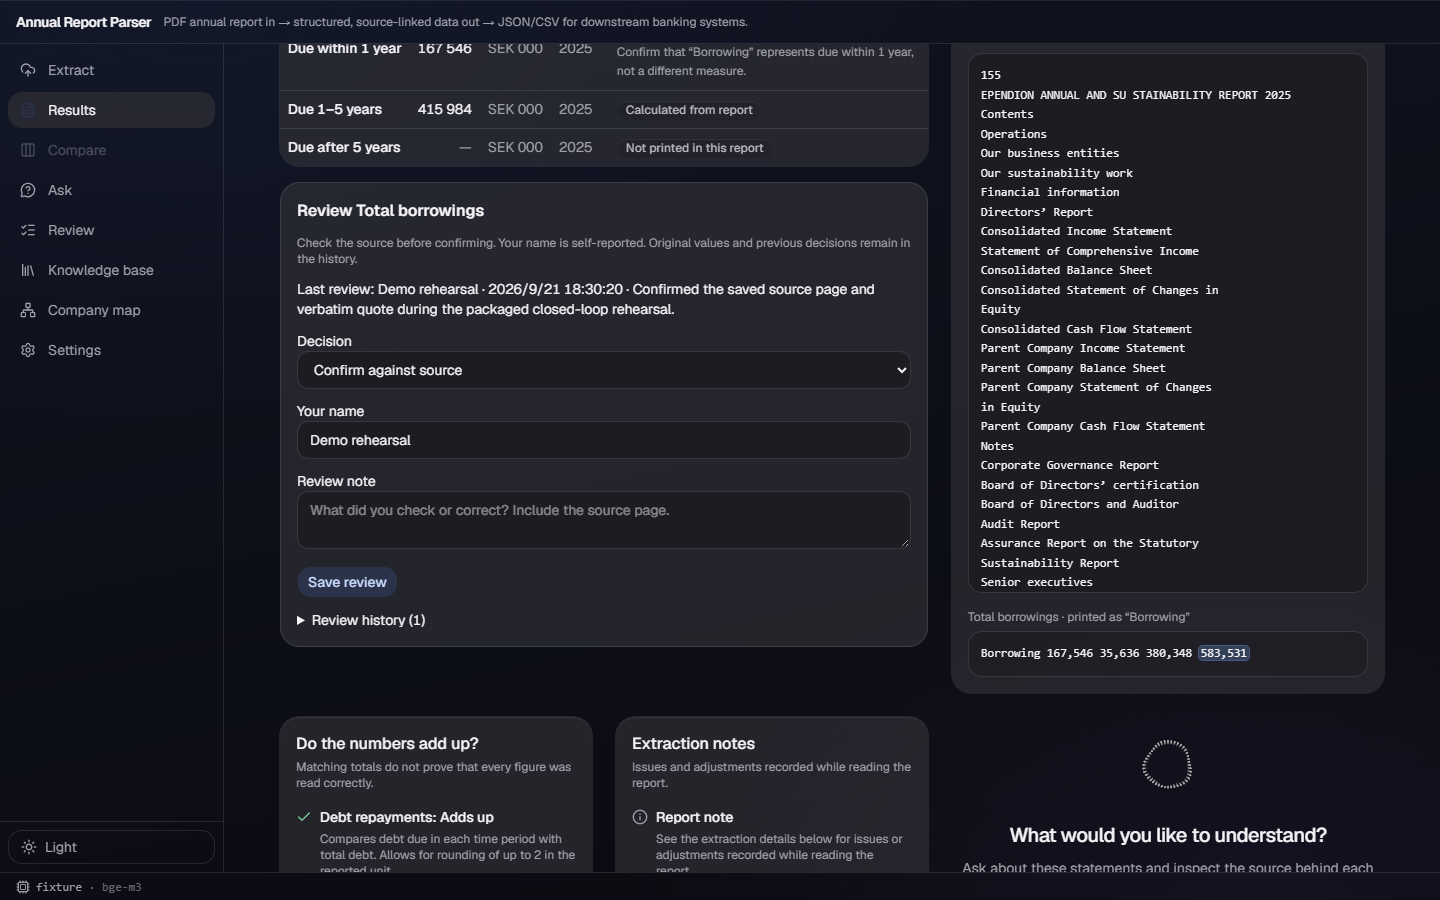
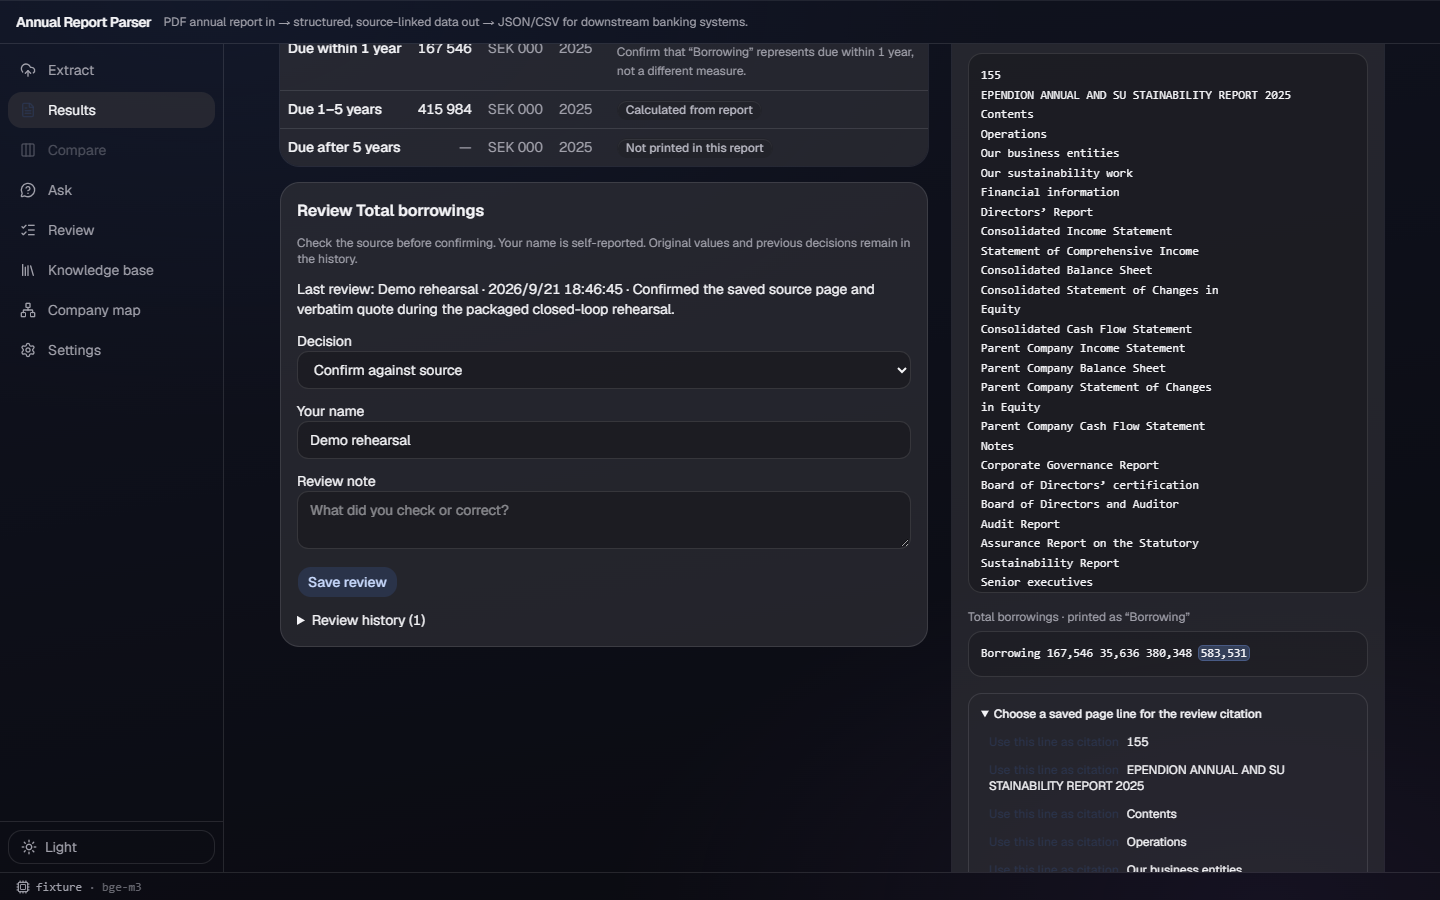
docs: update v176 walkthrough for latest acrylic

diff --git a/docs/DEMO.md b/docs/DEMO.md
@@ -8,7 +8,7 @@ zero model calls to set up, and the main show is **stored real results**, not a 
 
 | What | Value |
 |---|---|
-| Branch / commit demoed | `acrylic` at delivery: commit `6f43cd2` (re-run `git rev-parse --short=7 origin/acrylic` after a final fetch and update this row if it moved) |
+| Branch / commit demoed | `acrylic` at delivery: commit `fba373d` (re-run `git rev-parse --short=7 origin/acrylic` after a final fetch and update this row if it moved) |
 | Windows installer feed | [`desktop-demo`](https://github.com/Heffri/vivicta-seb/releases/tag/desktop-demo) (auto-updating, CI-built from the team `demo` branch) — install the Setup exe once; it updates itself. [`desktop-main`](https://github.com/Heffri/vivicta-seb/releases/tag/desktop-main) is the equivalent feed for `main` |
 | Not the installer? | Clone the repo and run `run.bat` (Windows) or `./run.sh` (macOS/Linux) — first run ~2–4 min, later runs seconds |
 | The old portable exe | `desktop-0.3.4` (portable/Setup zip) **cannot update itself** — do not demo from it; use the auto-updating installer above or a fresh `run.bat` checkout |
@@ -110,23 +110,23 @@ after everything below has already succeeded.
   hit `GET /api/kb` / open a KB record, confirm the window survives (a fresh single-instance lock
   conflict closes the second copy silently).
 
-## 实测（2026-09-21 · package source `7f5b617` · shared Windows test machine）
+## 实测（2026-09-21 · package build `25ed26b` / acrylic `fba373d` · shared Windows test machine）
 
 This is a fixture-mode rehearsal of the unpacked shared test package, on a newly created
-`--user-data-dir`. It makes no model calls. The package was refreshed from the listed commit; the
-last warm refresh took **50.9 s** and replaced frontend, backend, data and shell resources.
+`--user-data-dir`. It makes no model calls. The package was refreshed from the listed build; the
+last warm refresh took **41 s** and replaced frontend, backend, data and shell resources.
 
 | Step | Time | Result | Note |
 |---|---:|---|---|
-| First start → `/api/kb` | 19.8 s | 206 saved reports | First sync copied 206 KB entries and 4 other files into the clean userData. |
-| Extract landing page → **Open a real debt sample** | 0.40 s | Karnell Group results | Opens the stored real debt record; no `/extract` call or model call. |
-| Select **Due 1–5 years** → source | 0.06 s | Page 106 + highlighted Karnell quote | The bundled package has saved page text but no PDF image, as documented above. |
-| KB → Ependion | 0.96 s | **Not printed in this report** | The `Due after 5 years` absence is visibly distinct from zero. |
-| Confirm one figure | 0.19 s | Ependion total-borrowings review saved | The confirmation persisted after the close/reopen cycle. |
-| KB **Export all** CSV | 1.21 s | 105 data rows, 25,938 bytes | Debt-maturity export over the All collection. |
-| KB **Export all** PPTX deck | 5.64 s | 106 slides, 494,792 bytes | One summary slide plus 105 report slides. |
-| Compare two selected records → upcoming-maturities list loaded | 0.58 s | All-collection wall rendered | The wall showed 0/105 comparable, 105 basis-unconfirmed, 13 missing totals and 49 missing `<1y`; it does not imply a credit judgment. |
-| Close → reopen → `/api/kb` | close 0.31 s; reopen 4.1 s | 206 saved reports; review retained | Sync reported `+0 kb entries, +0 files` and kept the one user-modified reviewed extraction unchanged. |
+| First start → `/api/kb` | 18.4 s | 206 saved reports | First sync copied 206 KB entries and 4 other files into the clean userData. |
+| Extract landing page → **Open a real debt sample** | 0.28 s | Karnell Group results | Opens the stored real debt record; no `/extract` call or model call. |
+| Select **Due 1–5 years** → source | 0.07 s | Page 106 + highlighted Karnell quote | The bundled package has saved page text but no PDF image, as documented above. |
+| KB → Ependion | 1.48 s | **Not printed in this report** | The `Due after 5 years` absence is visibly distinct from zero. |
+| Confirm one figure | 0.71 s | Ependion total-borrowings review saved | The confirmation persisted after the close/reopen cycle. |
+| KB **Export all** CSV | 1.24 s | 105 data rows, 26,511 bytes | Debt-maturity export over the All collection. |
+| KB **Export all** PPTX deck | 5.75 s | 106 slides, 494,804 bytes | One summary slide plus 105 report slides. |
+| Compare two selected records → upcoming-maturities list fully loaded | 1.23 s | All-collection wall rendered | The wall showed 0/105 comparable, 105 basis-unconfirmed, 13 missing totals and 49 missing `<1y`; it does not imply a credit judgment. |
+| Close → reopen → `/api/kb` | close 0.27 s; reopen 4.9 s | 206 saved reports; review retained | Sync reported `+0 kb entries, +0 files` and kept the one user-modified reviewed extraction unchanged. |
 
 The refresh target's background updater also logs a non-blocking `ENOENT` for its absent
 `app-update.yml`. It did not affect package startup, saved data, review persistence, exports or the

diff --git a/docs/acrylic/evidence/v176.md b/docs/acrylic/evidence/v176.md
@@ -1,7 +1,8 @@
 # v176 — refreshed packaged-app closed loop
 
 Branch `ao/vivicta-seb-96/v176-app-refresh-closed-loop`, based on
-`origin/acrylic` at `7f5b617`. Territory: the shared unpacked test package plus
+`origin/acrylic` at `fba373d`; the packaged build is merge commit `25ed26b`.
+Territory: the shared unpacked test package plus
 `docs/DEMO.md`, this evidence and its screenshots. No product code, API contract, evaluation data
 or model provider was changed or called.
 
@@ -12,29 +13,30 @@ tip. A process check found no package process. One direct invocation of the refr
 rejected because its own parent command line matched the helper's conservative running-app scan;
 the retry used a small external wrapper, so the scan could only see real package processes.
 
-The first full refresh built and staged all four resources from `7f5b617`. A final warm full
-refresh, captured to a local-only log, completed in **50.9 s** and reported these replacements:
+The first full refresh built and staged all four resources from the then-current acrylic source.
+After merging the current acrylic tip, a final warm full refresh, captured to a local-only log,
+completed in **41 s** and reported these replacements:
 `frontend-dist`, `backend`, `data`, and `app.asar`. The resulting `BUILD.txt` names
-`7f5b617103b7538a0cee62bf8cb8efe3778d9f9f` on this branch. No package process was running after
+`25ed26b51afcdbbd32156688ed6b2143fe2c14f6` on this branch. No package process was running after
 the final close.
 
 ## Clean-userData closed loop
 
 The packaged executable was launched with a newly created, quoted `--user-data-dir` value. It
-answered `/api/kb` in **19.8 s** on first start, with **206** reports. Its first sync recorded
+answered `/api/kb` in **18.4 s** on first start, with **206** reports. Its first sync recorded
 `+206 kb entries, +4 files`.
 
 | Action | Measured time | Observed result |
 |---|---:|---|
-| Landing page → **Open a real debt sample** | 0.40 s | Karnell Group's saved debt result opened without an extraction/model call. |
-| Select Karnell **Due 1–5 years** | 0.06 s | Source panel showed page 106 and its highlighted verbatim quote. |
-| KB → All → Ependion | 0.96 s | `Due after 5 years` visibly reads **Not printed in this report**. |
-| Confirm Ependion total borrowings | 0.19 s | Human-confirmed review saved. |
-| KB Export all CSV | 1.21 s | 25,938 bytes and **105** data rows. |
-| KB Export all PPTX deck | 5.64 s | 494,792 bytes and **106** slides (summary + 105 reports). |
-| Compare Ependion + Karnell → fully loaded upcoming-maturities wall | 0.58 s | All-collection wall rendered with 0/105 comparable, 105 basis-unconfirmed, 13 missing totals and 49 missing `<1y`. |
-| Graceful close | 0.31 s | Owned launcher and backend exited. |
-| Measured reopen → `/api/kb` | 4.1 s | 206 reports; saved review still returned `confirmed`. |
+| Landing page → **Open a real debt sample** | 0.28 s | Karnell Group's saved debt result opened without an extraction/model call. |
+| Select Karnell **Due 1–5 years** | 0.07 s | Source panel showed page 106 and its highlighted verbatim quote. |
+| KB → All → Ependion | 1.48 s | `Due after 5 years` visibly reads **Not printed in this report**. |
+| Confirm Ependion total borrowings | 0.71 s | Human-confirmed review saved. |
+| KB Export all CSV | 1.24 s | 26,511 bytes and **105** data rows. |
+| KB Export all PPTX deck | 5.75 s | 494,804 bytes and **106** slides (summary + 105 reports). |
+| Compare Ependion + Karnell → fully loaded upcoming-maturities wall | 1.23 s | All-collection wall rendered with 0/105 comparable, 105 basis-unconfirmed, 13 missing totals and 49 missing `<1y`. |
+| Graceful close | 0.27 s | Owned launcher and backend exited. |
+| Measured reopen → `/api/kb` | 4.9 s | 206 reports; saved review still returned `confirmed`. |
 
 The two reopens each logged `+0 kb entries, +0 files, 1 kept (user-modified)`: the kept file is
 the confirmed review, so the `1 kept` is evidence of preservation rather than a bundle update.
